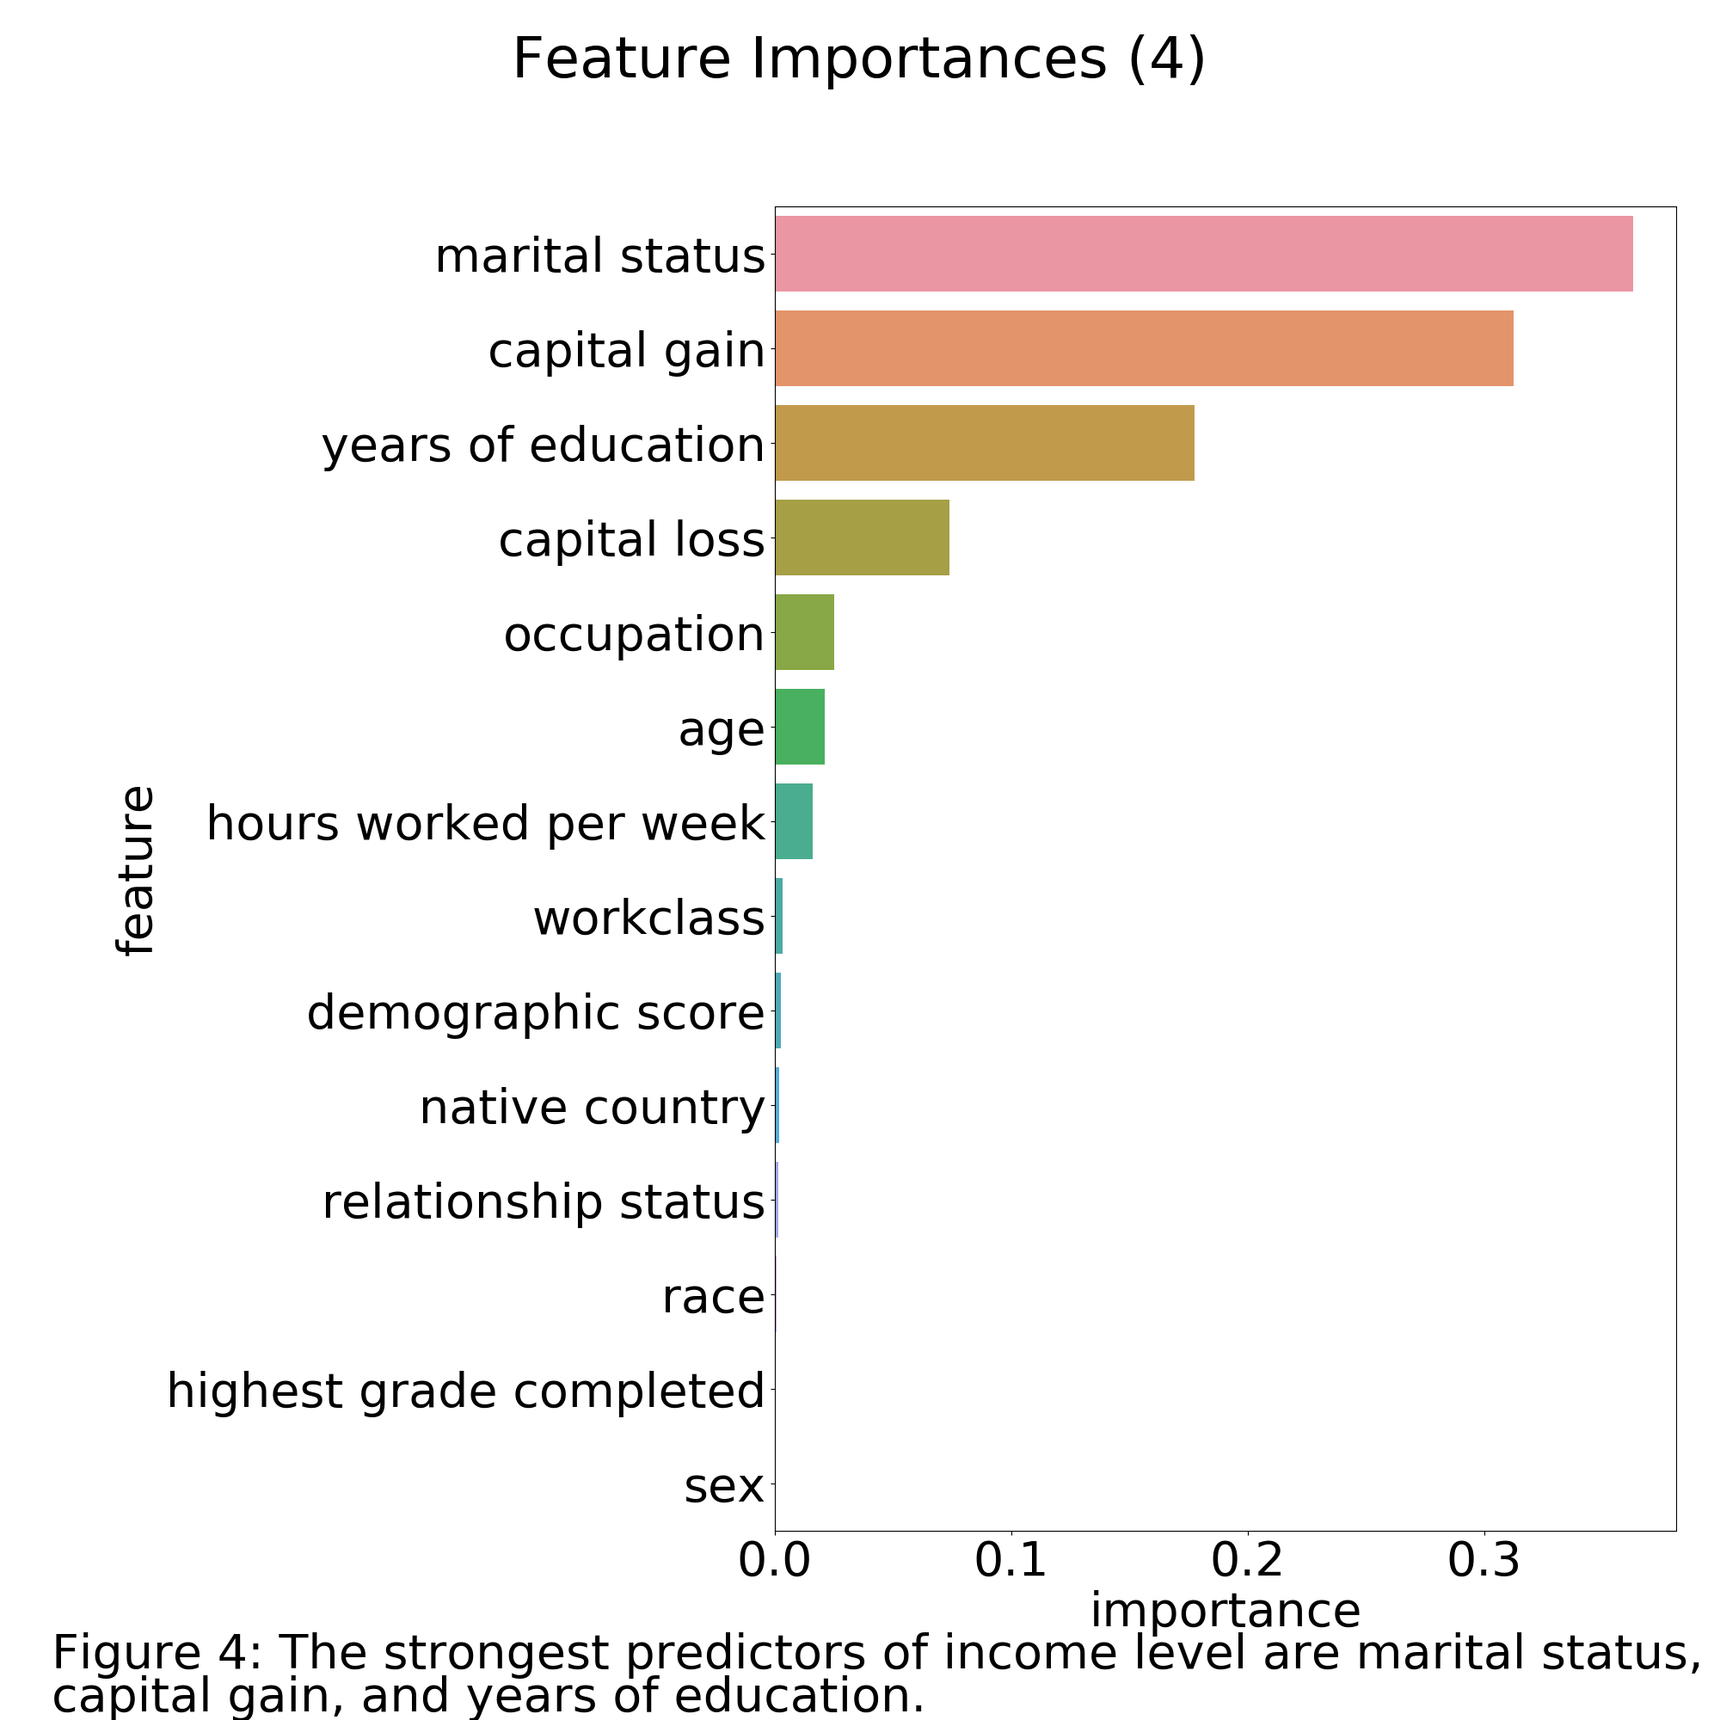
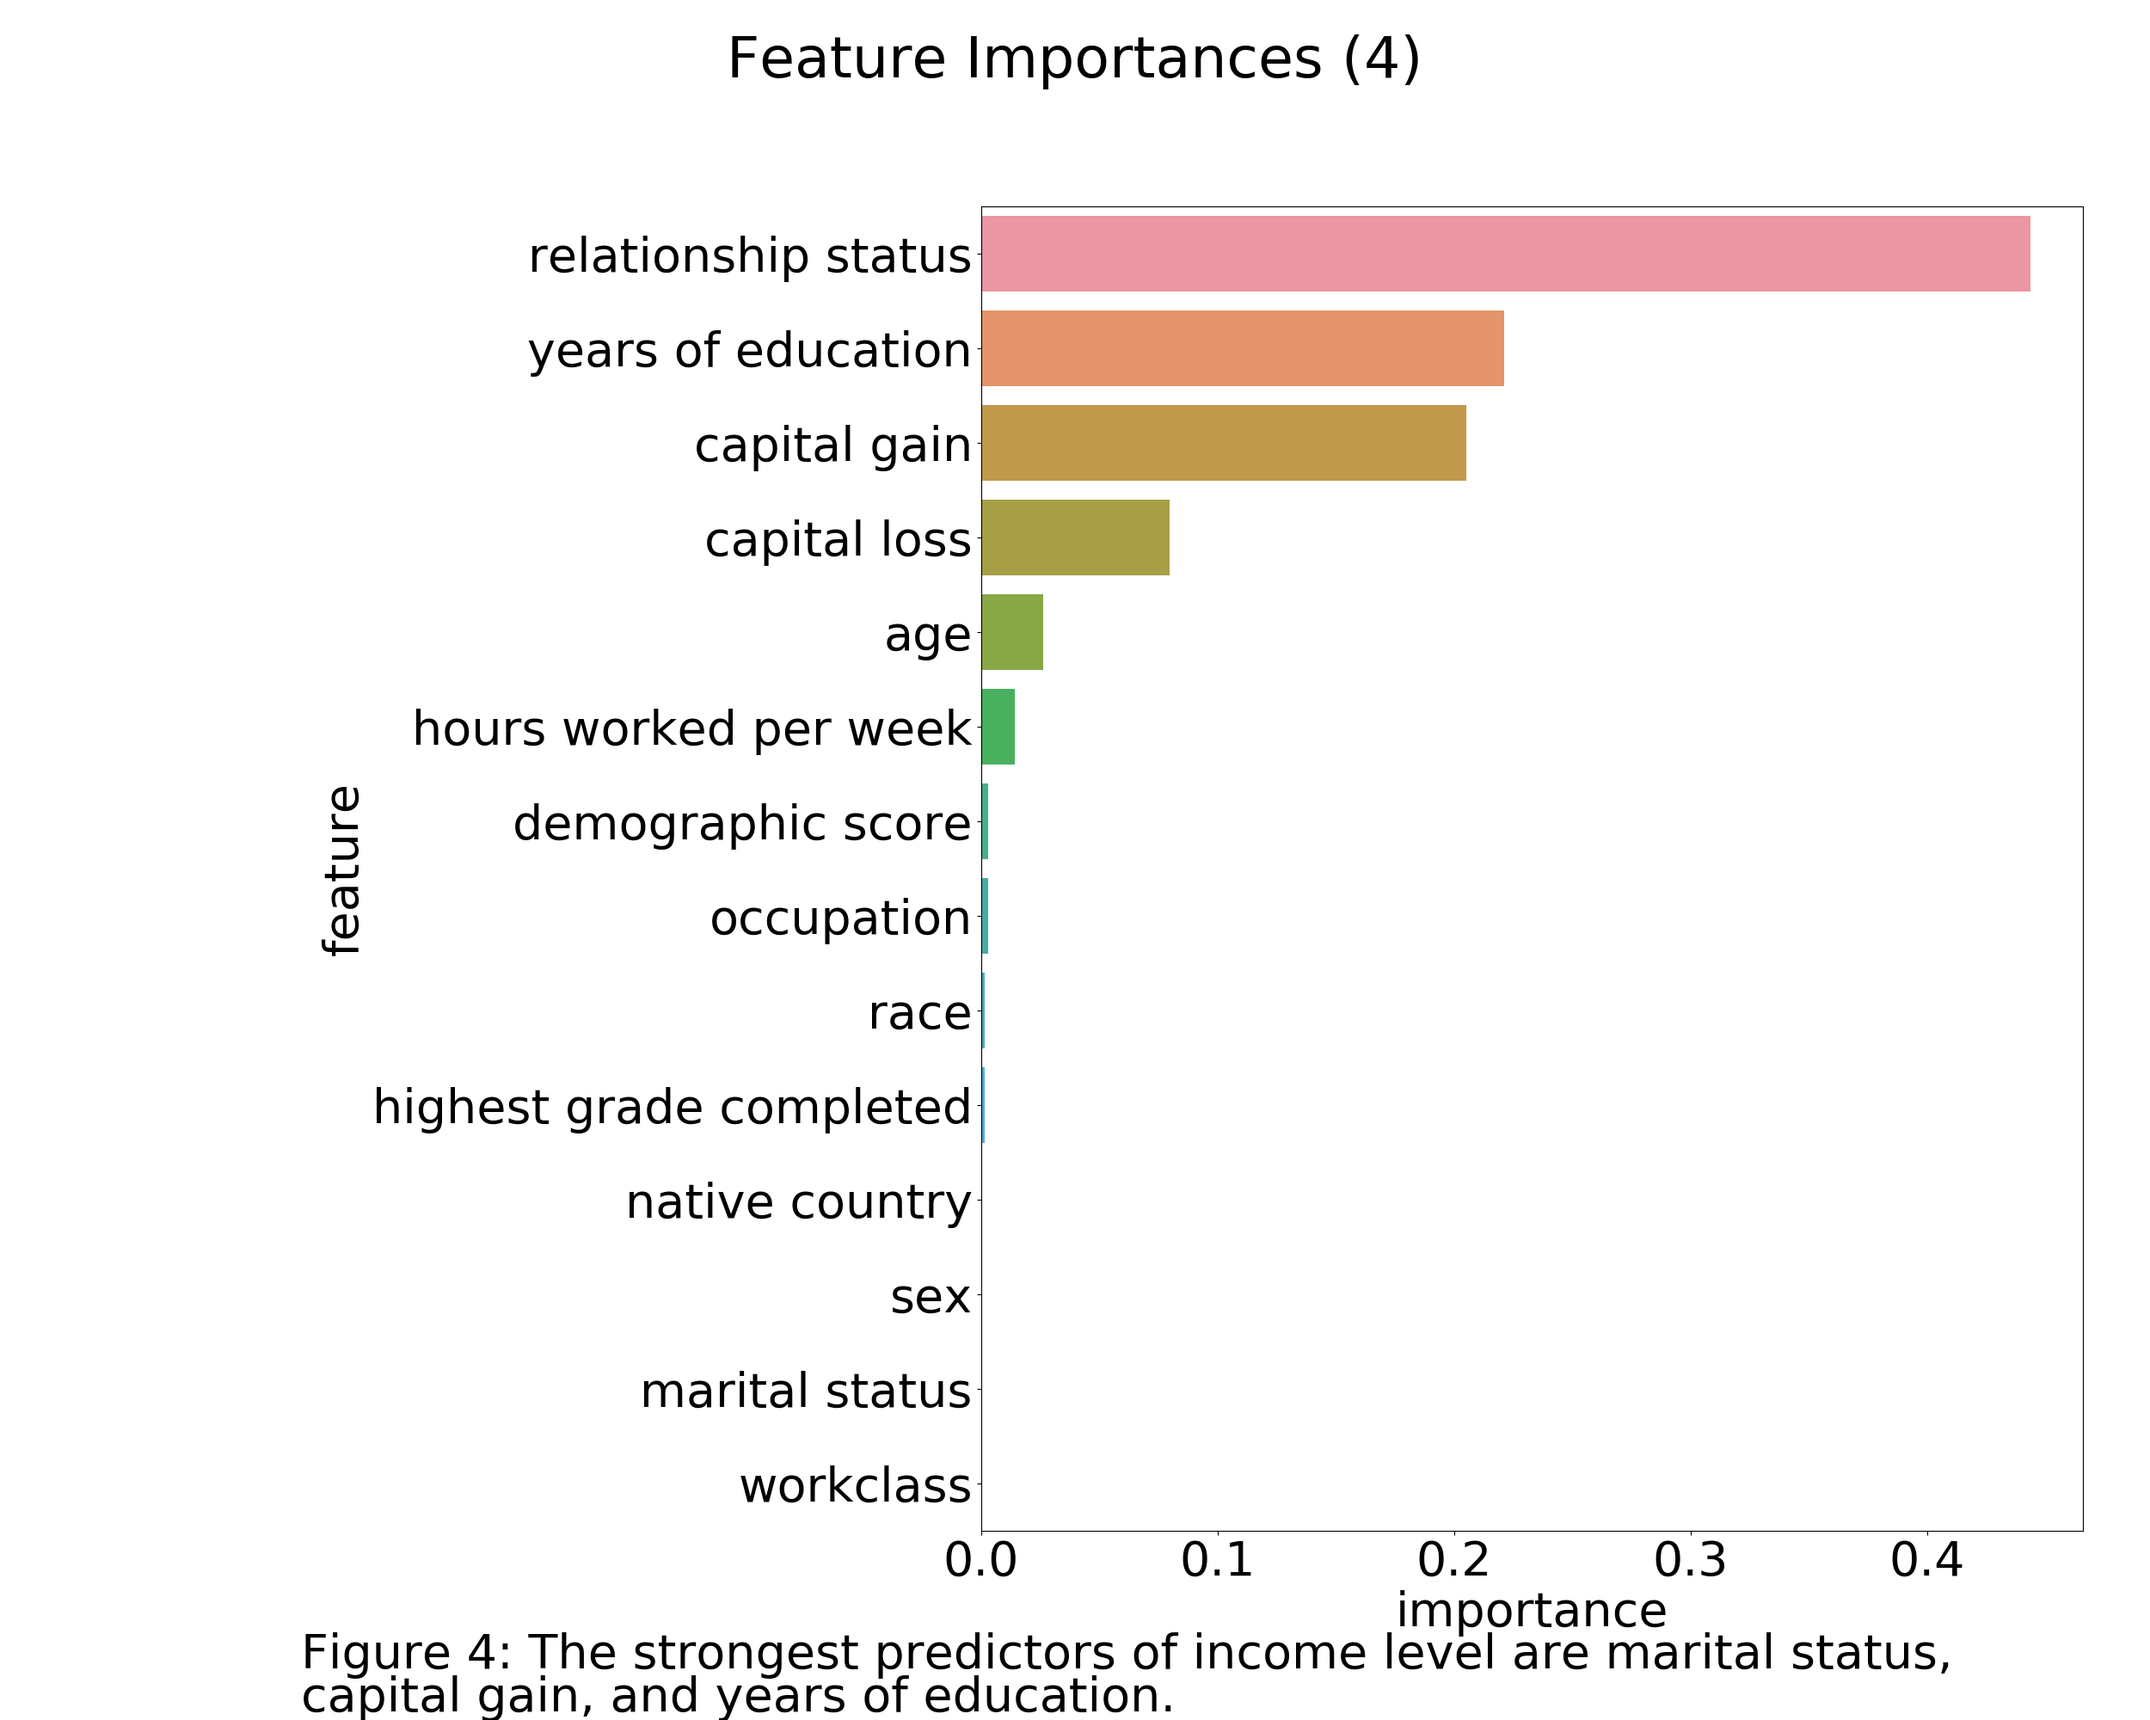
Update summary viz script and figure for 1-hot encoding

diff --git a/src/summary_viz.py b/src/summary_viz.py
@@ -36,7 +36,7 @@ def main():
     font = {'size': 40}
     matplotlib.rc('font', **font)
     
-    fig, ax = plt.subplots(figsize=(20, 20))
+    fig, ax = plt.subplots(figsize=(25, 20))
     feature_imps_ax = sns.barplot(data=feature_imps_renamed_df,
                                   x='importance', y='feature',
                                   ci=None, ax=ax)
@@ -47,8 +47,8 @@ def main():
     feature_imps_ax.set_position(pos_new)
     feature_imps_fig = feature_imps_ax.get_figure()
     feature_imps_fig.suptitle('Feature Importances (4)')
-    feature_imps_fig.text(.03, .03, 'Figure 4: The strongest predictors of income level are marital status,')
-    feature_imps_fig.text(.03, .005, 'capital gain, and years of education.')
+    feature_imps_fig.text(.14, .03, 'Figure 4: The strongest predictors of income level are marital status,')
+    feature_imps_fig.text(.14, .005, 'capital gain, and years of education.')
     feature_imps_fig.savefig(output_file)
     
 if __name__ == '__main__':
